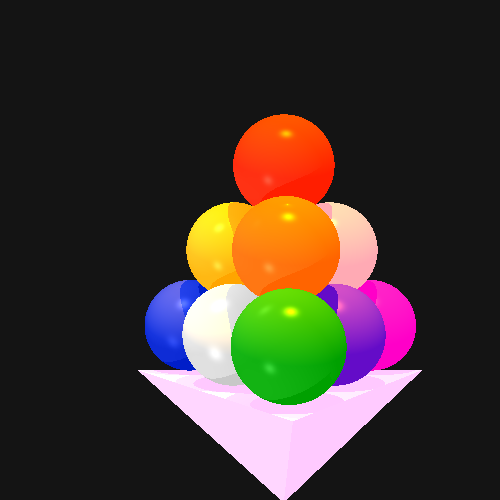
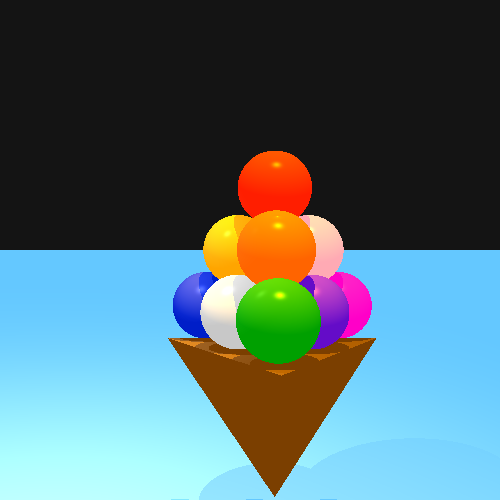
///

diff --git a/unitTests/renderer/Minip1.java b/unitTests/renderer/Minip1.java
@@ -19,17 +19,17 @@ public class Minip1 {
                 .setBackground(new Color(20,20,20));
 
         scene.geometries.add(
-//                new Plane(new Point(0, -180, 0), new Point(1, -180, 0), new Point(0, -180, 1))
-//                        .setEmission(new Color(100, 200, 300)).setMaterial(new Material().setKd(0.3).setKs(0.8).setShininess(30)),
+                new Plane(new Point(0, -600, 0), new Point(1, -600, 0), new Point(0, -600, 1))
+                        .setEmission(new Color(100, 200, 300)).setMaterial(new Material().setKd(0.3).setKs(0.8).setShininess(30)),
 
                 new Triangle (new Point (-150,-160,0),new Point (230,-160,0),new Point(40,-160,300))
-                        .setEmission(new Color(255, 200, 300)).setMaterial(new Material().setKd(0.3).setKs(0.8).setShininess(30)),
-                new Triangle (new Point (-150,-160,0),new Point (230,-160,0),new Point(40,-300,110))
-                        .setEmission(new Color(255, 200, 300)).setMaterial(new Material().setKd(0.3).setKs(0.8).setShininess(30)),
-                new Triangle (new Point (-150,-160,0),new Point (40,-300,110),new Point(40,-160,300))
-                        .setEmission(new Color(255, 200, 300)).setMaterial(new Material().setKd(0.3).setKs(0.8).setShininess(30)),
-                new Triangle (new Point (40,-300,110),new Point (230,-160,0),new Point(40,-160,300))
-                        .setEmission(new Color(255, 200, 300)).setMaterial(new Material().setKd(0.3).setKs(0.8).setShininess(30)),
+                        .setEmission(new Color(123, 63, 0)).setMaterial(new Material().setKd(0.3).setKs(0.8).setShininess(30)),
+                new Triangle (new Point (-150,-160,0),new Point (230,-160,0),new Point(40,-400,110))
+                        .setEmission(new Color(123, 63, 0)).setMaterial(new Material().setKd(0.3).setKs(0.8).setShininess(30)),
+                new Triangle (new Point (-150,-160,0),new Point (40,-400,110),new Point(40,-160,300))
+                        .setEmission(new Color(123, 63, 0)).setMaterial(new Material().setKd(0.3).setKs(0.8).setShininess(30)),
+                new Triangle (new Point (40,-400,110),new Point (230,-160,0),new Point(40,-160,300))
+                        .setEmission(new Color(123, 63, 0)).setMaterial(new Material().setKd(0.3).setKs(0.8).setShininess(30)),
 
                 //first floar-
                 new Sphere(60,new Point(-80,-100,0)).setEmission(new Color(0,30,200))  .setMaterial(new Material().setKd(0.3).setKs(0.5).setShininess(30)),//blue
@@ -73,7 +73,7 @@ public class Minip1 {
         Camera.Builder camera = Camera.getBuilder()
                 .setLocation(new Point(0, 0, 1000))  // Position the camera further back
                 .setDirection(new Vector(0, 1, 0).normalize(), new Vector(0, 0, -1))  // Pointing towards the scene with correct up vector
-                .setVpDistance(300)  // Adjusted to capture a larger view
+                .setVpDistance(220)  // Adjusted to capture a larger view
                 .setVpSize(200, 200);  // Increased size for a broader view
 
         ImageWriter imagewriter=new ImageWriter("Spheres6",500,500);
